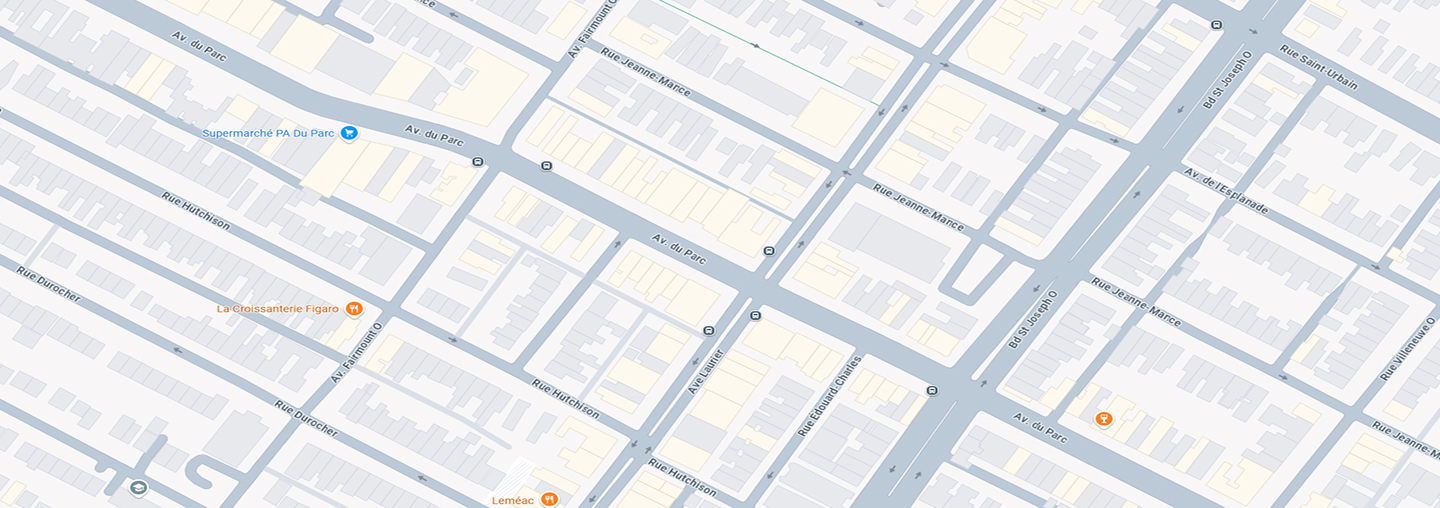
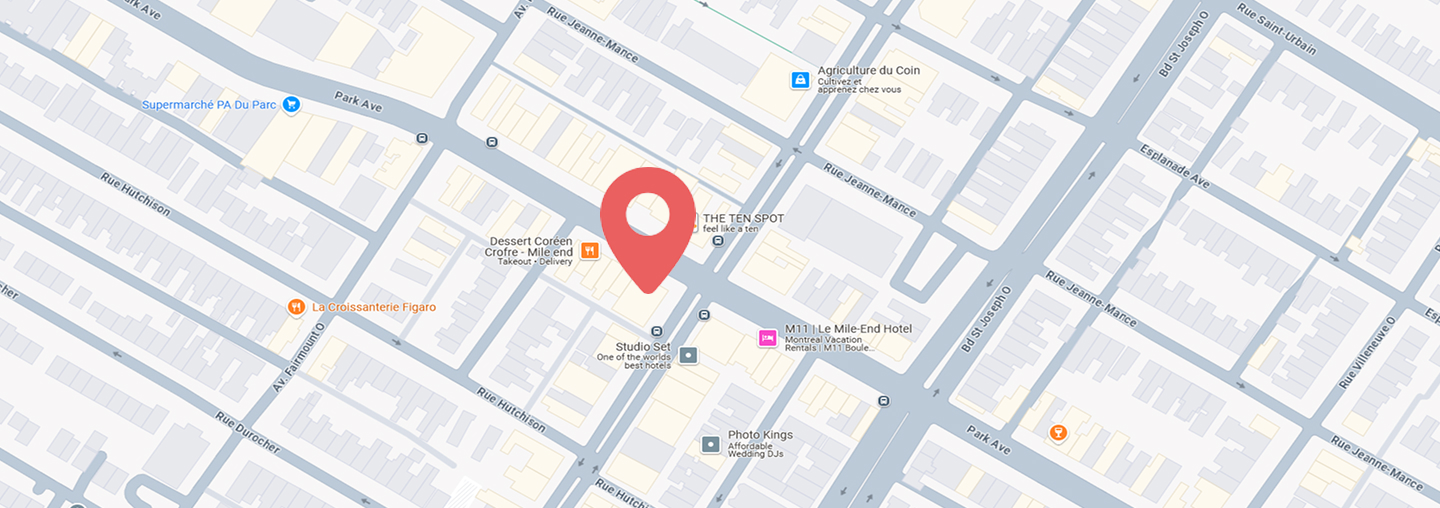
yeah

diff --git a/css/hover.css b/css/hover.css
@@ -14,101 +14,3 @@
     background-color: #2098D1;
     color: white;
   }
-
-  .hvr-radial-out {
-    display: inline-block;
-    vertical-align: middle;
-    -webkit-transform: perspective(1px) translateZ(0);
-    transform: perspective(1px) translateZ(0);
-    box-shadow: 0 0 1px rgba(0, 0, 0, 0);
-    position: relative;
-    overflow: hidden;
-    -webkit-transition-property: color;
-    transition-property: color;
-    -webkit-transition-duration: 0.3s;
-    transition-duration: 0.3s;
-  }
-  .hvr-radial-out:before {
-    content: "";
-    position: absolute;
-    z-index: -1;
-    top: 0;
-    left: 0;
-    right: 0;
-    bottom: 0;
-    border-radius: 100%;
-    -webkit-transform: scale(0);
-    transform: scale(0);
-    -webkit-transition-property: transform;
-    transition-property: transform;
-    -webkit-transition-duration: 0.3s;
-    transition-duration: 0.3s;
-    -webkit-transition-timing-function: ease-out;
-    transition-timing-function: ease-out;
-  }
-  .hvr-radial-out:hover, .hvr-radial-out:focus, .hvr-radial-out:active {
-    color: white;
-  }
-  .hvr-radial-out:hover:before, .hvr-radial-out:focus:before, .hvr-radial-out:active:before {
-    -webkit-transform: scale(2);
-    transform: scale(2);
-  }
-
-  /* Overline From Left */
-.hvr-overline-from-left {
-    display: inline-block;
-    vertical-align: middle;
-    -webkit-transform: perspective(1px) translateZ(0);
-    transform: perspective(1px) translateZ(0);
-    box-shadow: 0 0 1px rgba(0, 0, 0, 0);
-    position: relative;
-    overflow: hidden;
-  }
-  .hvr-overline-from-left:before {
-    content: "";
-    position: absolute;
-    z-index: -1;
-    left: 0;
-    right: 100%;
-    top: 0;
-    height: 4px;
-    -webkit-transition-property: right;
-    transition-property: right;
-    -webkit-transition-duration: 0.3s;
-    transition-duration: 0.3s;
-    -webkit-transition-timing-function: ease-out;
-    transition-timing-function: ease-out;
-  }
-  .hvr-overline-from-left:hover:before, .hvr-overline-from-left:focus:before, .hvr-overline-from-left:active:before {
-    right: 0;
-  }
-
-  /* Underline From Right */
-.hvr-underline-from-right {
-    display: inline-block;
-    vertical-align: middle;
-    -webkit-transform: perspective(1px) translateZ(0);
-    transform: perspective(1px) translateZ(0);
-    box-shadow: 0 0 1px rgba(0, 0, 0, 0);
-    position: relative;
-    overflow: hidden;
-  }
-  .hvr-underline-from-right:before {
-    content: "";
-    position: absolute;
-    z-index: -1;
-    left: 100%;
-    right: 0;
-    bottom: 0;
-    height: 4px;
-    -webkit-transition-property: left;
-    transition-property: left;
-    -webkit-transition-duration: 0.3s;
-    transition-duration: 0.3s;
-    -webkit-transition-timing-function: ease-out;
-    transition-timing-function: ease-out;
-  }
-  .hvr-underline-from-right:hover:before, .hvr-underline-from-right:focus:before, .hvr-underline-from-right:active:before {
-    left: 0;
-  }
-  

diff --git a/css/styles.css b/css/styles.css
@@ -244,7 +244,7 @@ h1{
 
 .carte{
     background: url(../images/carte.jpg) no-repeat center/cover;
-    min-height: 508px;
+    height: 508px;
 
     position: relative;
 }
@@ -348,6 +348,11 @@ footer .material-symbols-outlined{
     display: flex;
     justify-content: center;
     align-items: center;
+}
+
+footer .material-symbols-outlined:hover{
+    border: solid 3px #AEFAF6;
+    color: #AEFAF6;
 }
 
 /* ------- Fenêtre Modale ------- */

diff --git a/index.html b/index.html
@@ -186,7 +186,7 @@ Section Contact
         <a href="mailto:Denkiato@gmail.com" class="bouton hvr-fade"> Envoyer Un Courriel </a>    
     </div>
 
-    <div class="carte"><img src="images/pointeur.png" alt="pointeur"></div>
+    <div class="carte"></div>
     
 </section>
 
